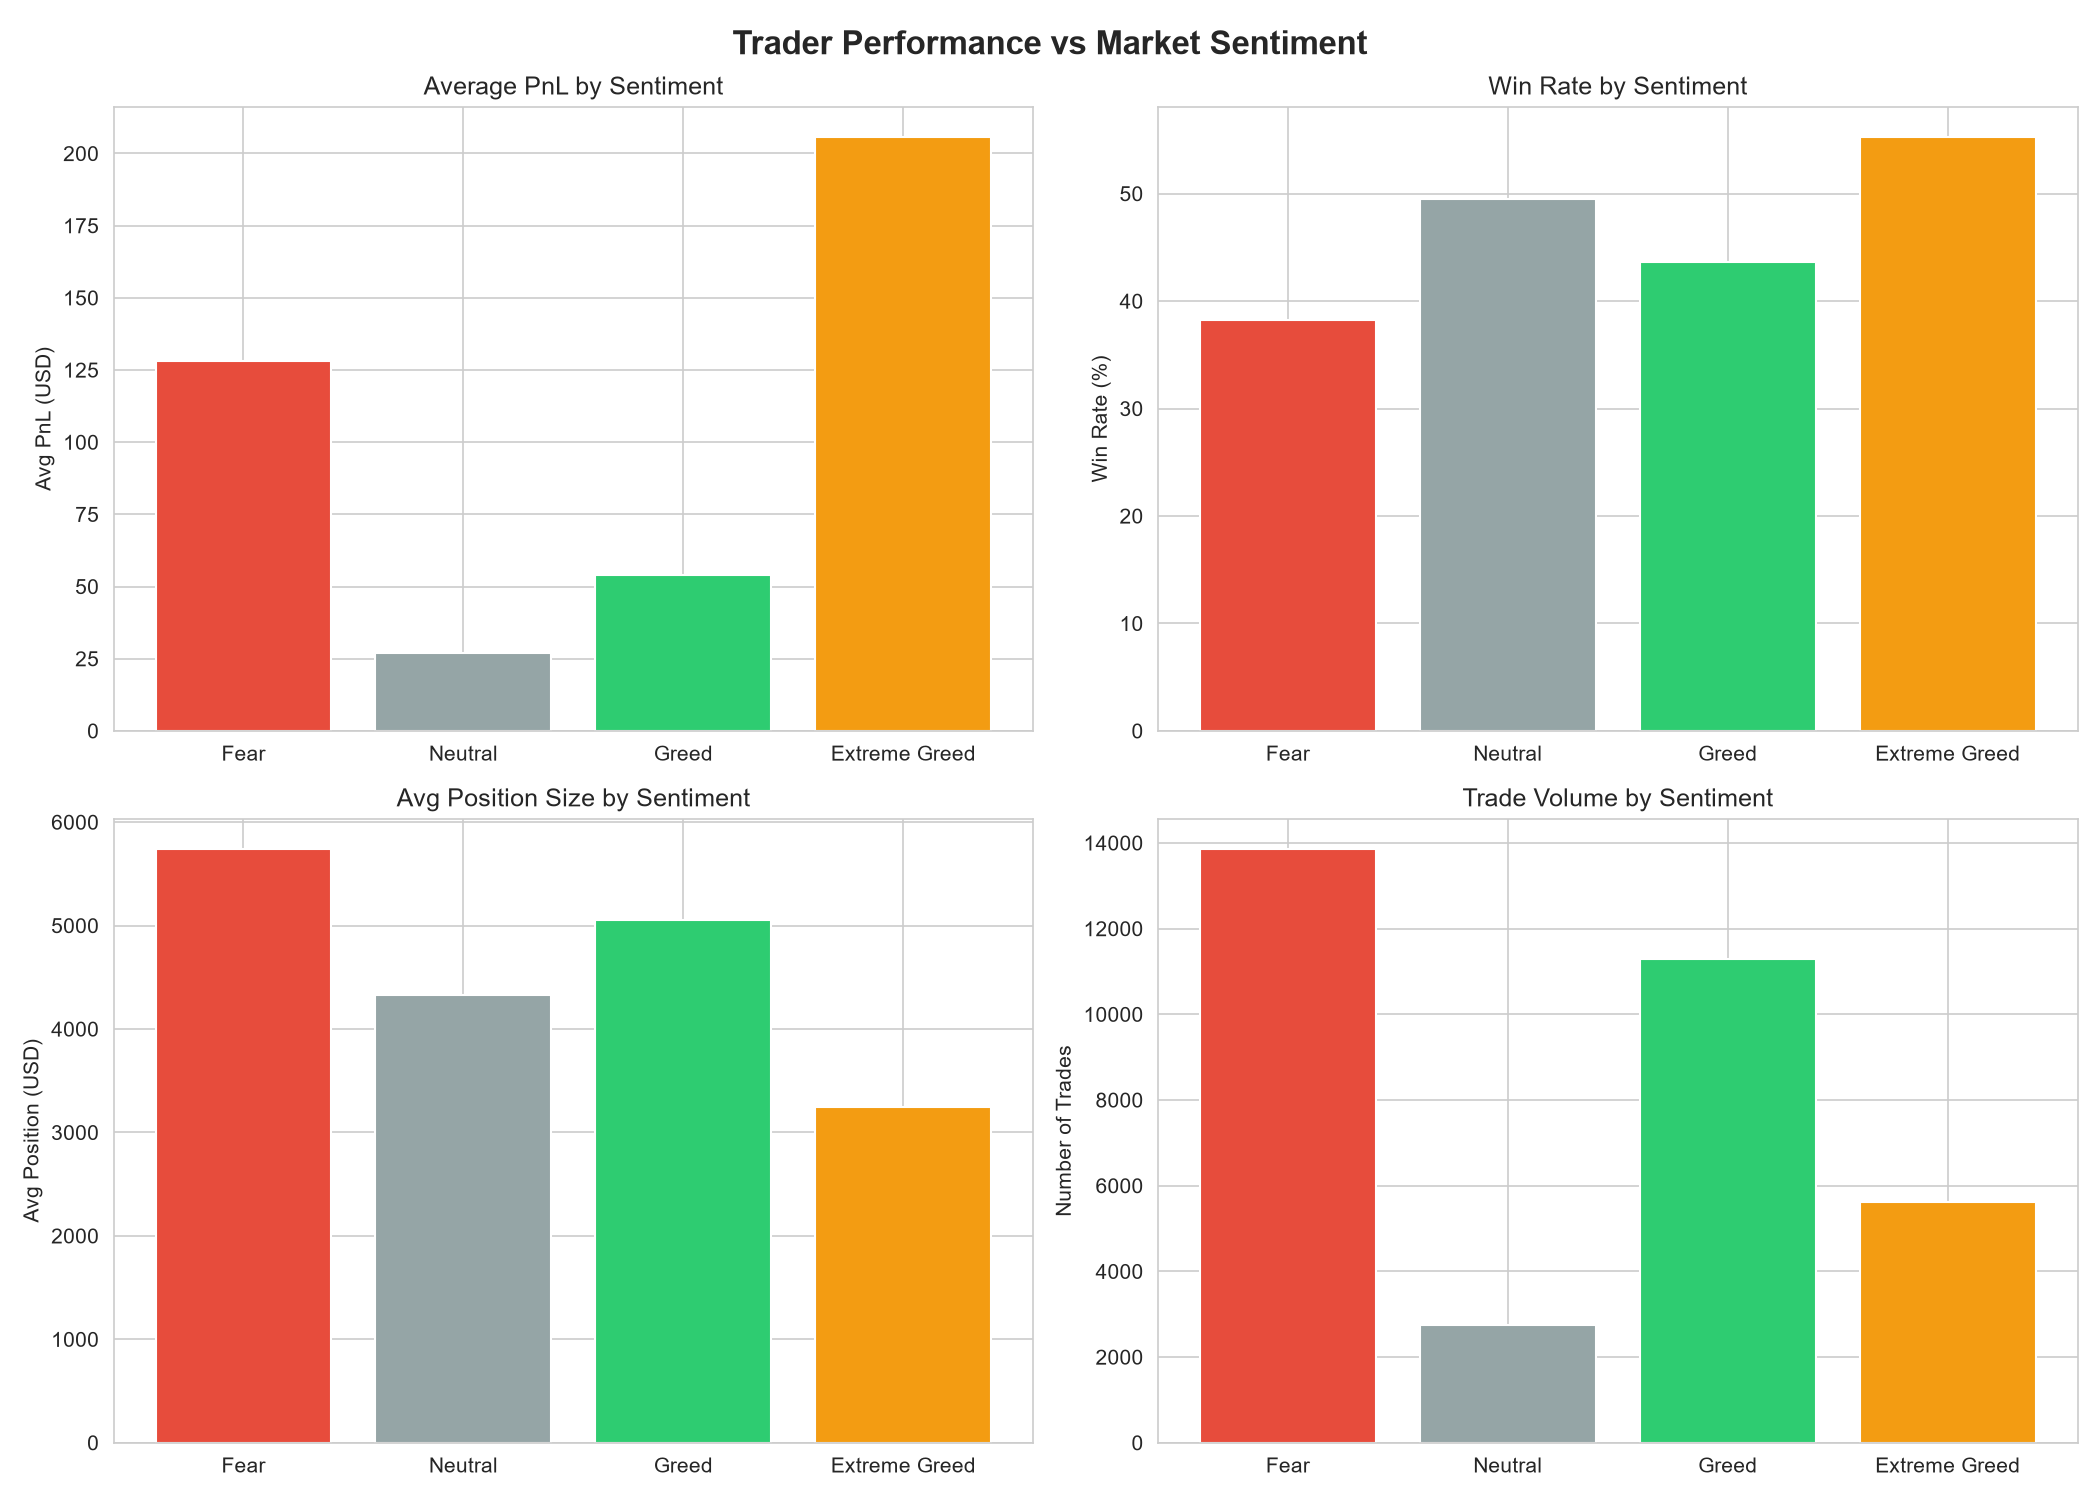
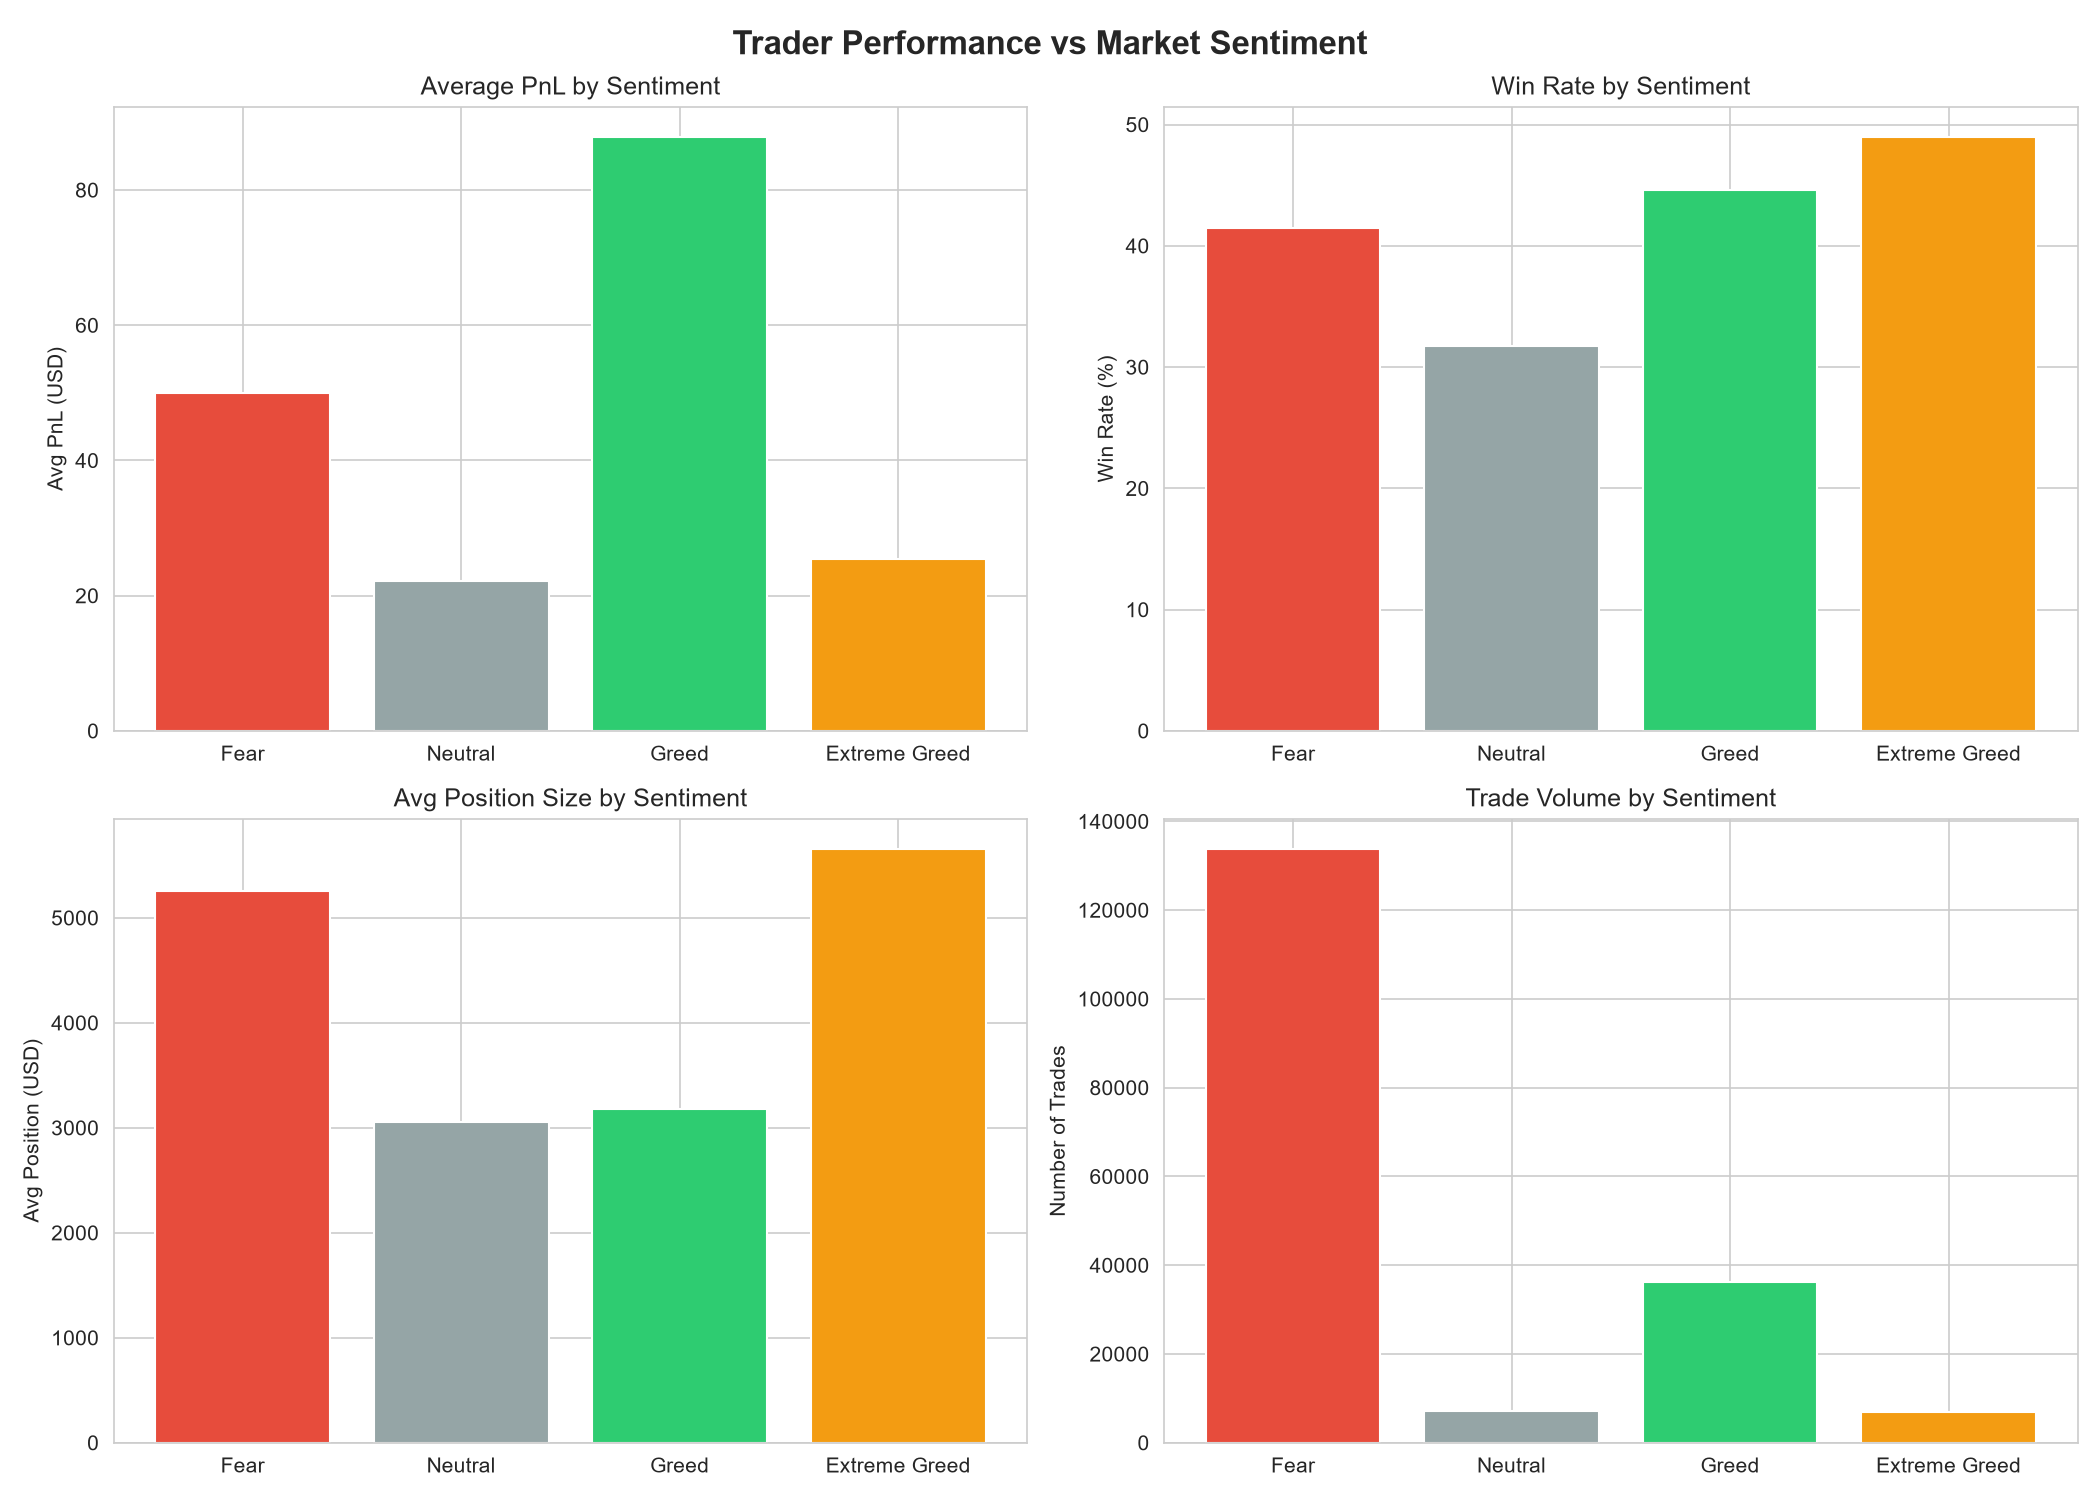
Fix timestamp parsing bug

diff --git a/analysis.py b/analysis.py
@@ -43,8 +43,10 @@ def clean_and_merge(sentiment, trades):
 
     sentiment["date"] = pd.to_datetime(sentiment["date"]).dt.date
 
+    # Use the numeric millisecond-epoch 'Timestamp' column (not the string
+    # 'Timestamp IST' column) -- this is what correctly parses every row.
     trades["Timestamp"] = pd.to_datetime(
-        trades["Timestamp IST"], errors="coerce"
+        trades["Timestamp"], unit="ms", errors="coerce"
     )
     trades["date"] = trades["Timestamp"].dt.date
 
